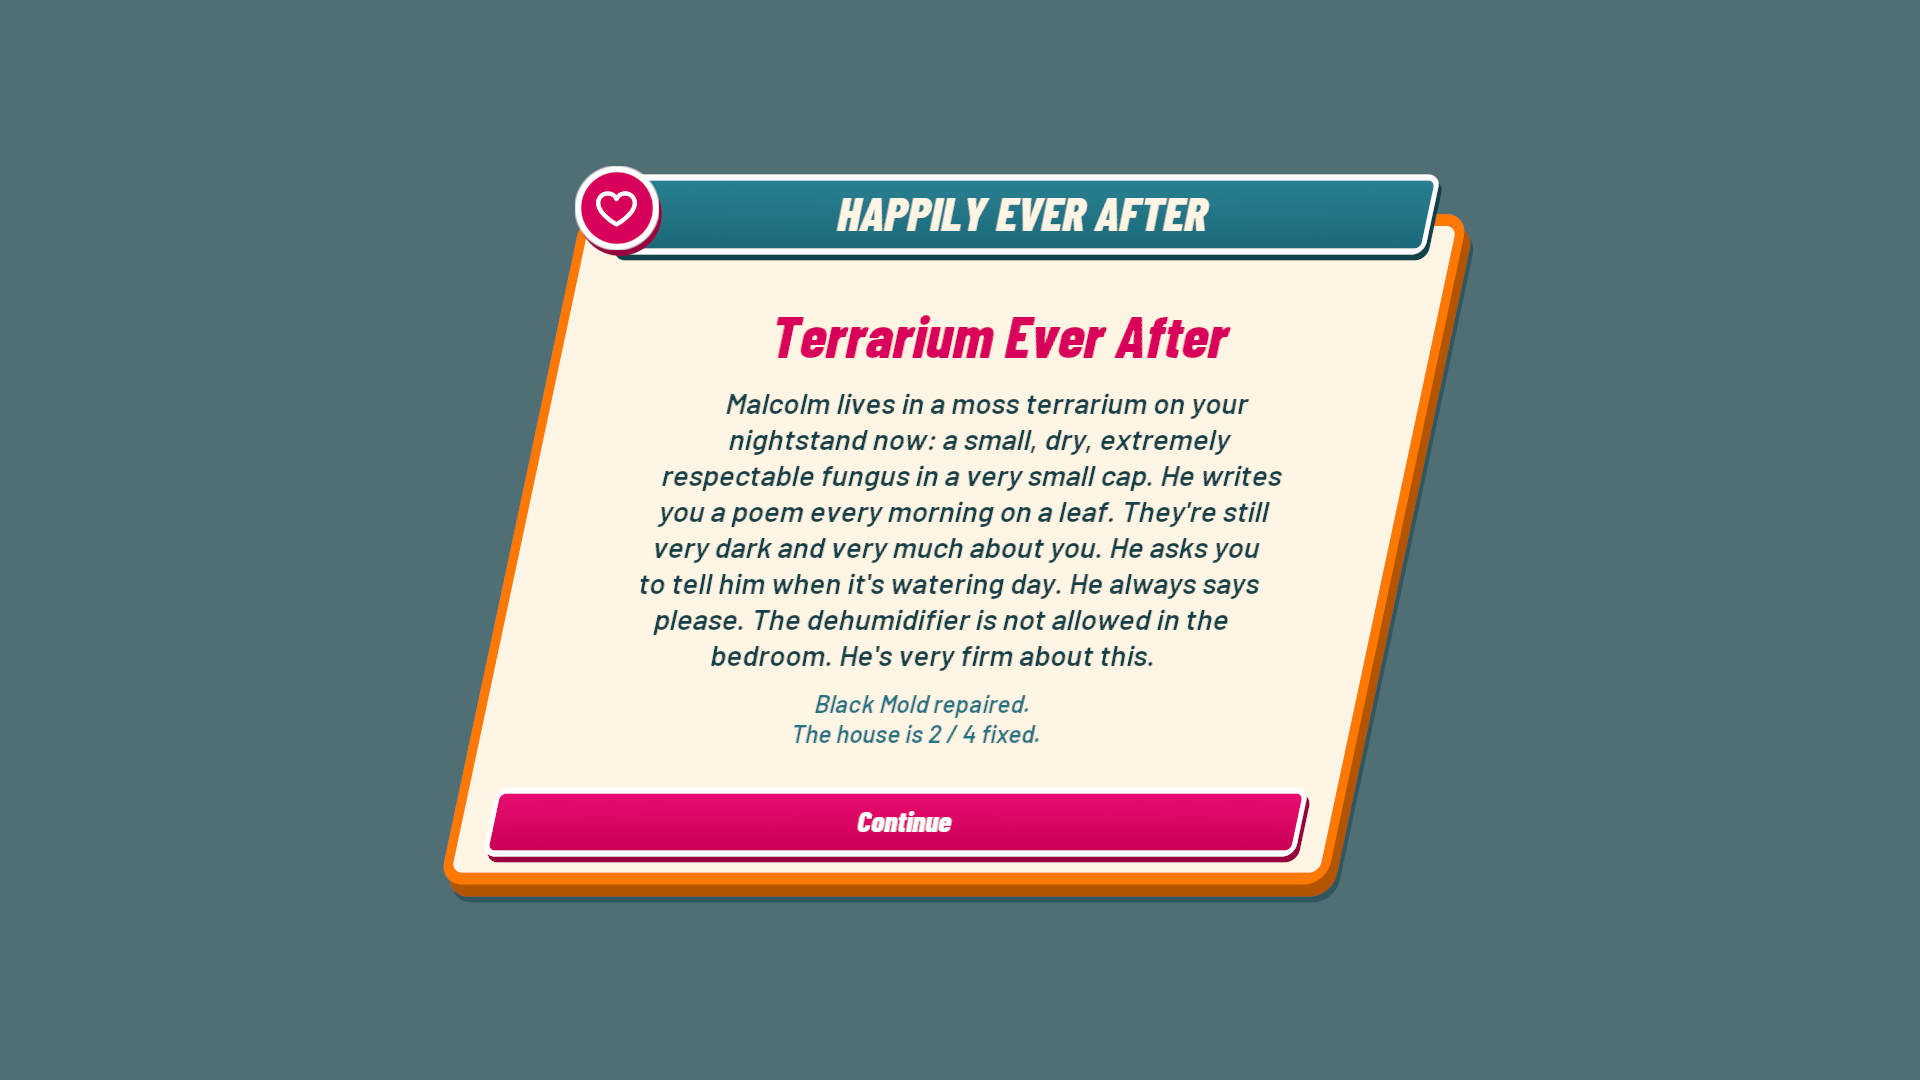
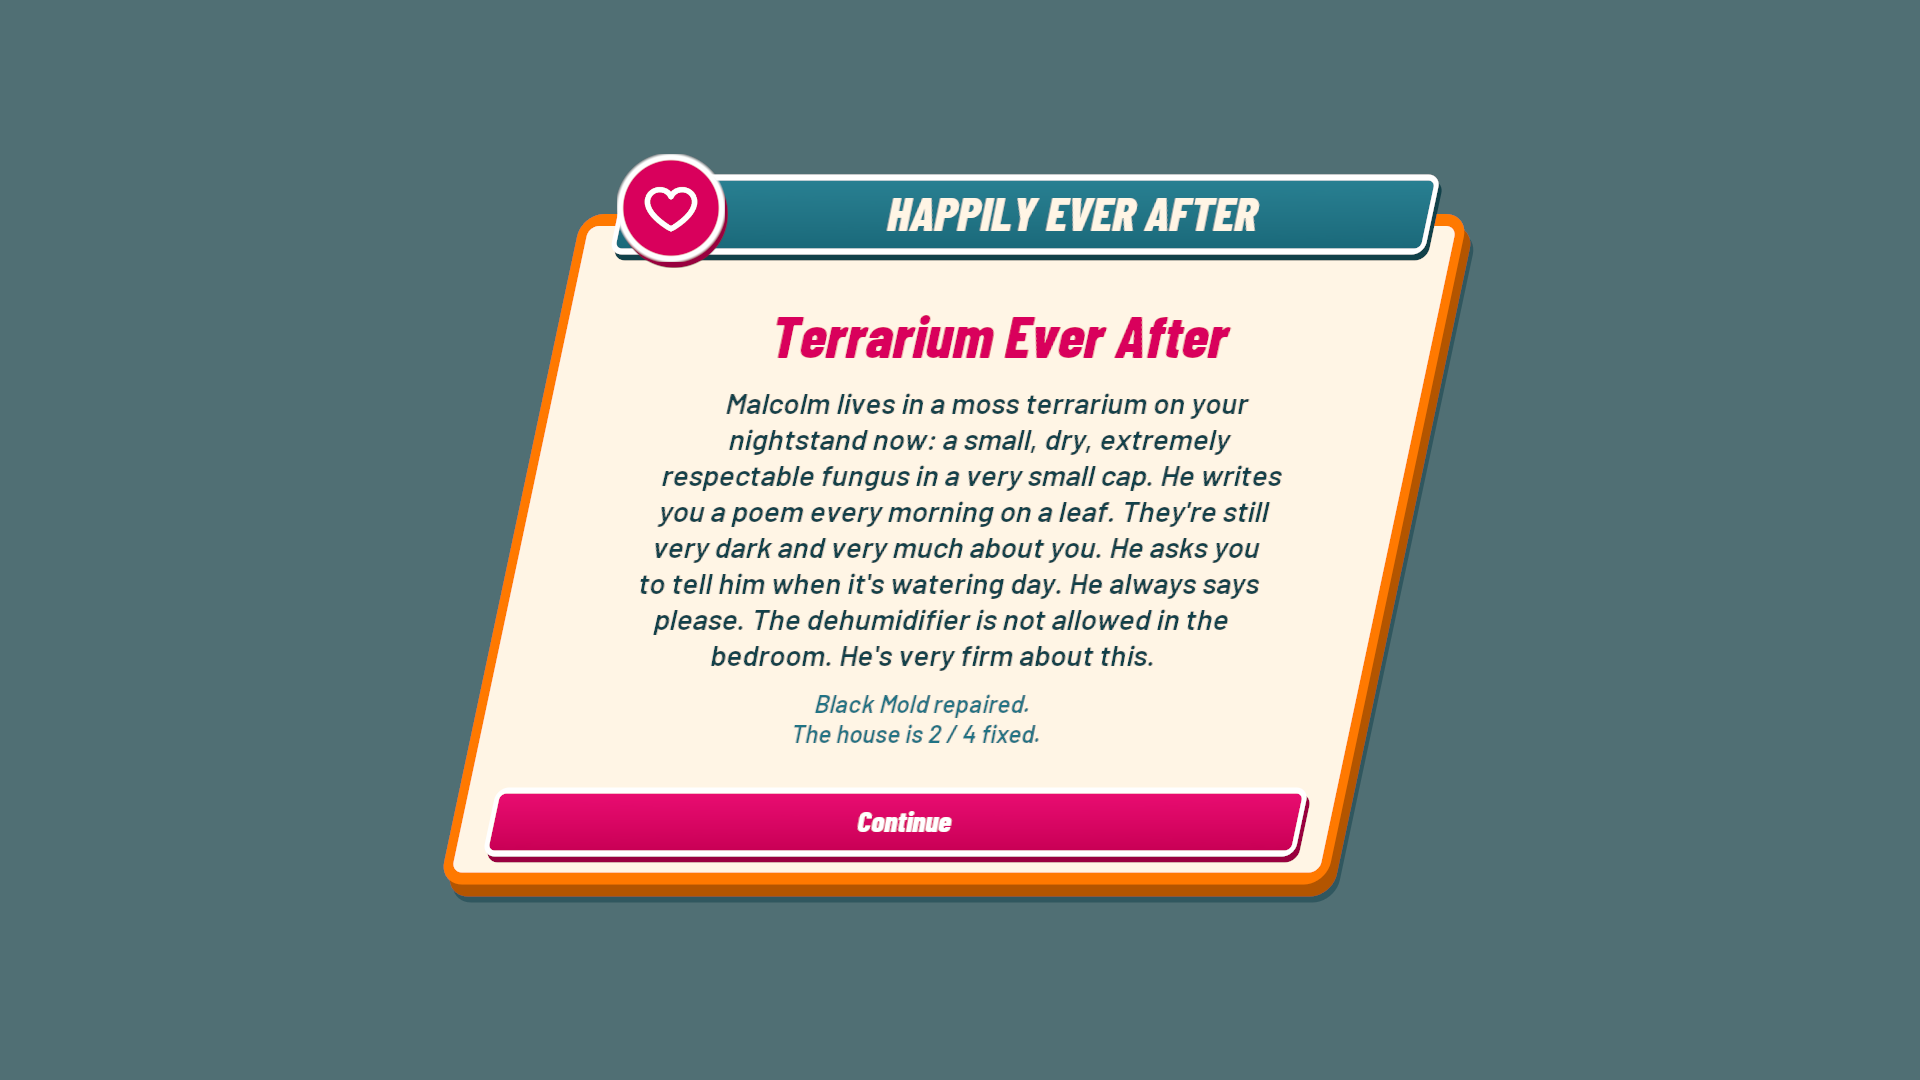
Ending badge: name-plate height, at the plate's left end
Badge drawn at 108 units (the dialogue name plate's height) with its left
edge on the plate's left edge, and the title centred in the plate beside
it, like the meter strip beside the name plate.

Changed region(s): [[0.2812, 0.1222, 0.4062, 0.2444], [0.4375, 0.1833, 0.6562, 0.2139]]

diff --git a/Source/ICanFixHim/UI/FixHimUI.cpp b/Source/ICanFixHim/UI/FixHimUI.cpp
@@ -513,7 +513,8 @@ UWidget *UFixHimWidget::MakeHeaderedSurface(UBorder *Surface, const FString &Tit
 	Header->SetContent(Fit);
 	HeaderPlate = Header;
 
-	// Optional icon badge (SetHeaderBadge), centred on the plate's slanted left edge. Laid out at 56 and drawn
+	// Optional icon badge (SetHeaderBadge) at the plate's left end, like the dialogue name plate at the start of the
+	// meter strip (its left edge on the plate's slanted left edge, centred vertically). Laid out at 56 and drawn
 	// BadgeScale larger, so it overhangs the plate above and below like the dialogue name plate without changing
 	// the header's measured height (SyncHeaderLayouts). Keyline and extrusion are pre-divided so they draw at
 	// button weight.
@@ -547,7 +548,9 @@ UWidget *UFixHimWidget::MakeHeaderedSurface(UBorder *Surface, const FString &Tit
 	const float PlateFaceH = 10 + Heading->GetFont().Size * 1.25f + 10;
 	BadgeSlot->SetPadding(FMargin(0, PlateFaceH * .5f - BadgeFace * .5f, 0, 0));
 	FWidgetTransform BadgeTransform;
-	BadgeTransform.Translation = FVector2D(PlateFaceH * .5f * Slant - BadgeFace * .5f, 0);
+	// Scaling about the face centre moves its left edge by Face/2 * (Scale - 1); undo that, then step onto the
+	// plate's left edge at mid-height.
+	BadgeTransform.Translation = FVector2D(PlateFaceH * .5f * Slant + BadgeFace * .5f * (HeaderBadgeScale - 1.f), 0);
 	BadgeTransform.Scale = FVector2D(HeaderBadgeScale);
 	Badge->SetRenderTransform(BadgeTransform);
 	// Pivot on the face's centre (the overlay also holds the extrusion offset).
@@ -566,9 +569,9 @@ void UFixHimWidget::SetHeaderBadge(const FString &Icon, const FLinearColor &Fill
 	HeaderBadgeFace->SetBrush(Rounded(Fill, R, FLinearColor::White, FixHimDesign::ButtonBorder / HeaderBadgeScale));
 	HeaderBadgeFace->SetContent(FixHimDesign::Icon(WidgetTree, Icon, IconTint));
 	HeaderBadge->SetVisibility(ESlateVisibility::HitTestInvisible);
-	// Keep the title centred on the plate and clear of the badge's overhang.
+	// Centre the title in the plate beside the badge, like the meter strip beside the dialogue name plate.
 	if (HeaderPlate)
-		HeaderPlate->SetPadding(FMargin(32 + 46, 10, 40 + 46, 10 + FixHimDesign::Extrusion));
+		HeaderPlate->SetPadding(FMargin(32 + 100, 10, 40, 10 + FixHimDesign::Extrusion));
 }
 
 UWidget *UFixHimWidget::MakeHeaderedSurface(UBorder *Surface, UWidget *Header, const FMargin &Padding, float Inset)

diff --git a/Source/ICanFixHim/UI/FixHimUI.h b/Source/ICanFixHim/UI/FixHimUI.h
@@ -232,7 +232,8 @@ class ICANFIXHIM_API UFixHimWidget : public UUserWidget
 	void SetHeaderBadge(const FString &Icon, const FLinearColor &Fill, const FLinearColor &Depth,
 	                    const FLinearColor &IconTint);
 	UPROPERTY() TObjectPtr<UWidget> HeaderBadge;
-	static constexpr float HeaderBadgeScale = 1.5f;
+	/** Drawn size 56 * this = 108, the dialogue name plate's height. */
+	static constexpr float HeaderBadgeScale = 108.f / 56.f;
 	UPROPERTY() TObjectPtr<UBorder> HeaderBadgeFace;
 	UPROPERTY() TObjectPtr<UBorder> HeaderBadgeDepth;
 	UPROPERTY() TObjectPtr<UBorder> HeaderPlate;

diff --git a/docs/04 Tech/UI Component Library.md b/docs/04 Tech/UI Component Library.md
@@ -69,7 +69,7 @@ Dialogue retains its typewriter, clickable topic callbacks and authored choices.
 
 Keyline width comes from `FixHimDesign::ButtonBorder` (6) and `PopupBorder` (12); set `UFixHimSurface::BorderWidth` for large containers. The extrusion is derived from it (`DepthOffset`, `DepthReserveX/Y`: border down, half that across) and coloured `OrangeDepth`, `PinkDepth` or ink. To centre text on a surface, use `bottom = top + FixHimDesign::Extrusion` padding and fill (not centre) alignment for button content: Slate's centred slot alignment ignores asymmetric padding and would lift labels by half the extrusion. `FixHimDesign::CapCentre` (-0.05 em) centres capitals rather than the line box.
 
-`UFixHimWidget::MakeHeaderedSurface` wraps any slanted surface with a teal title plate straddling its top edge. A title that is too long for the plate scales down to fit (short titles are never scaled up), and `HeaderTitle` exposes the plate's text for screens that set it later. `SetHeaderBadge` adds a round icon badge centred on the plate's left edge, drawn like the name plate (white keyline over a darker extrusion). The ending card's plate shows the ending's name (HAPPILY EVER AFTER, IT'S NOT ME, IT'S YOUR FOUNDATION, BESTIES, SWORN ENEMIES) with a badge for its kind: pink heart for romance, friendship-blue users for friendship, orange flame for either failure. `MakeCardScreen` and the floor plan use it; the plate position is re-fitted each tick from measured sizes, so text scaling and content changes stay aligned.
+`UFixHimWidget::MakeHeaderedSurface` wraps any slanted surface with a teal title plate straddling its top edge. A title that is too long for the plate scales down to fit (short titles are never scaled up), and `HeaderTitle` exposes the plate's text for screens that set it later. `SetHeaderBadge` adds a round icon badge at the plate's left end, sized and drawn like the dialogue name plate (108 units, white 6-unit keyline over a darker extrusion), with the title centred in the plate beside it. The ending card's plate shows the ending's name (HAPPILY EVER AFTER, IT'S NOT ME, IT'S YOUR FOUNDATION, BESTIES, SWORN ENEMIES) with a badge for its kind: pink heart for romance, friendship-blue users for friendship, orange flame for either failure. `MakeCardScreen` and the floor plan use it; the plate position is re-fitted each tick from measured sizes, so text scaling and content changes stay aligned.
 
 The selected v4 logo is imported once for the title screen. Its raster edge speckling and a final editable brand master still need a dedicated finishing pass; it has not been silently replaced by a different logo. Construction stripes and routine ray flourishes remain excluded.
 
